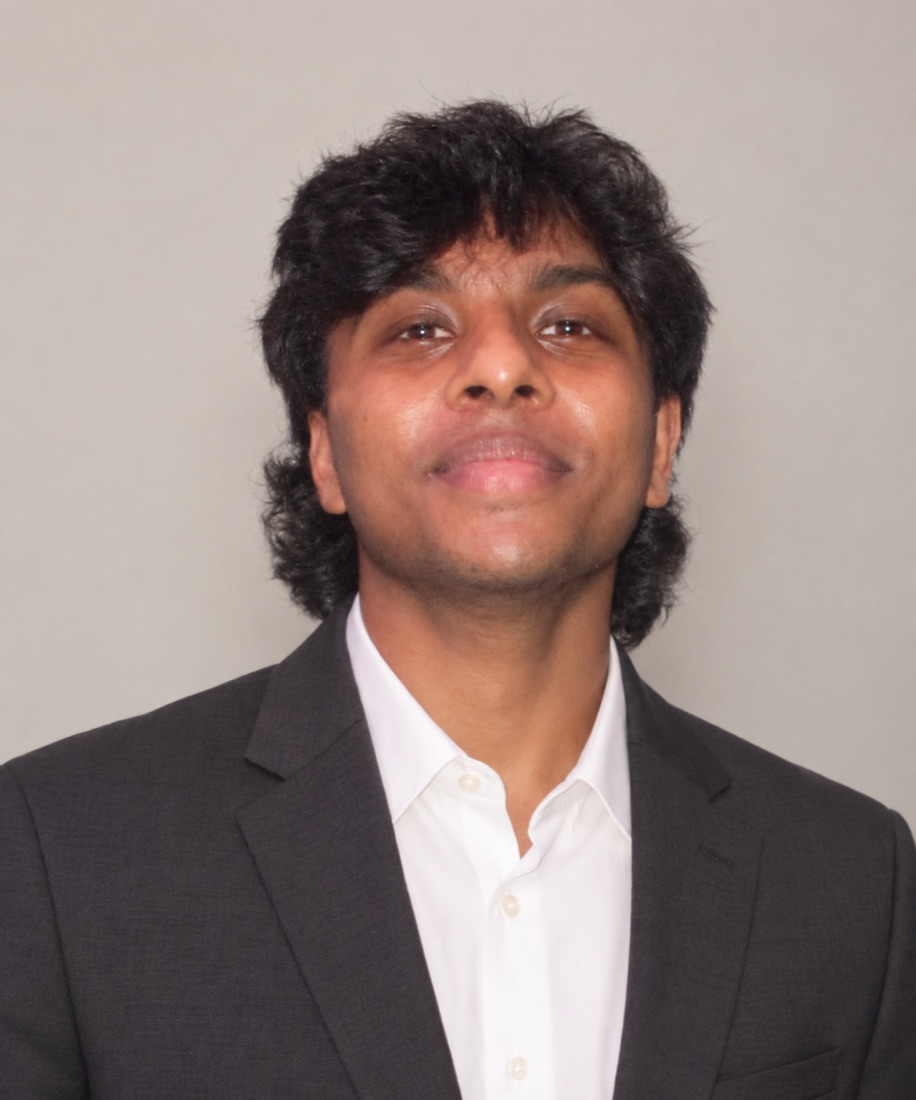
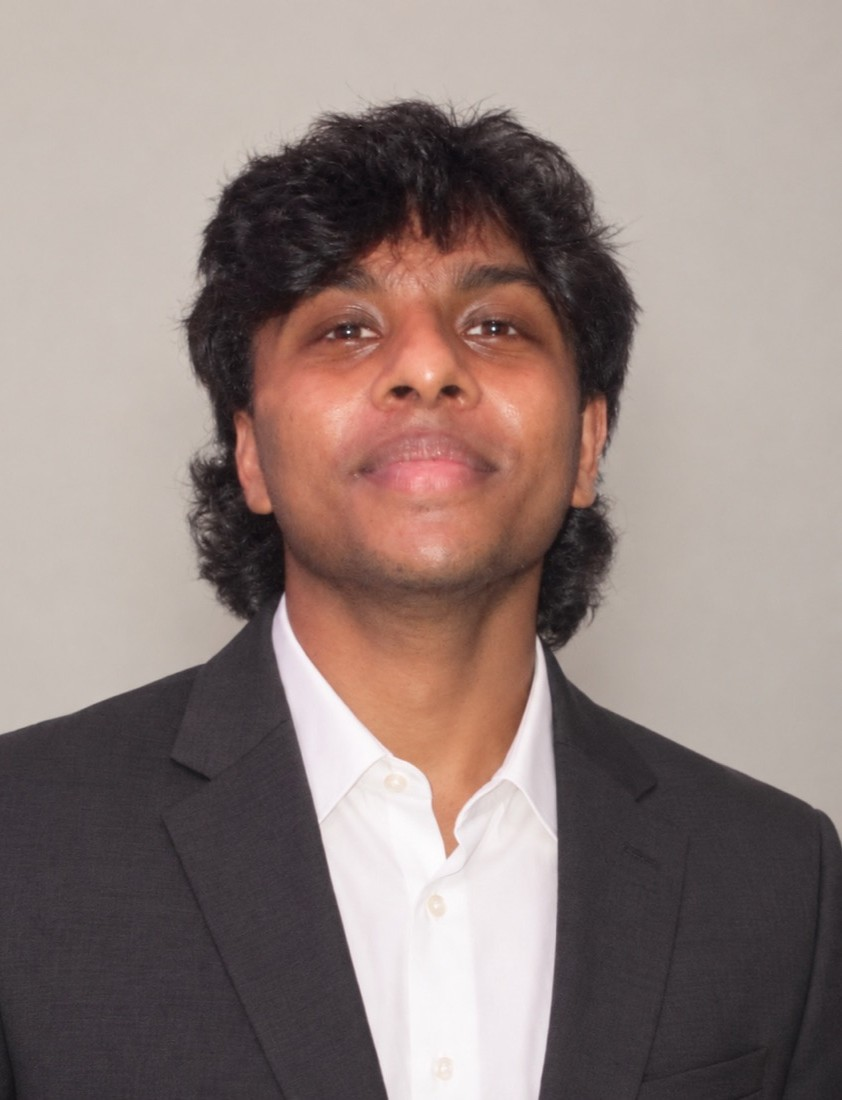
Hero photo: a real Polaroid (square print, deep chin), face cropped onto the centre line, glossy print that catches the light as the pointer moves

diff --git a/src/styles/sections.css b/src/styles/sections.css
@@ -272,28 +272,69 @@
   margin-bottom: 24px;
 }
 
-/* A Polaroid on the cards' cream stock, set straight: a thin even border
-   on all four sides. The window takes whatever height the intro leaves (near square
-   on a desktop); `height: 0` keeps the image's own height out of the row's
-   sizing, so the intro alone sets it. The crop sits high, on the face. */
+/* A Polaroid on the cards' cream stock, set straight: an even border on
+   the top and both sides, a square print, and the deep blank chin below,
+   which takes whatever height the intro leaves. The picture is cropped
+   in the file so his face sits on the print's vertical centre line. */
 .hero__photo {
+  --side: 13px;
   display: flex;
   flex-direction: column;
   width: 256px;
   margin: 5px 0;
-  padding: 14px;
+  padding: var(--side) var(--side) calc(var(--side) * 3);
   background: var(--cream);
-  border-radius: 4px;
+  border-radius: 3px;
   box-shadow: var(--card-shadow);
 }
 
-.hero__photo img {
+/* The print: square, set a hair into the frame by a soft inner shadow,
+   with its gloss on top. The shine is a diagonal band of light, faint at
+   rest; HeroPhoto.tsx sets --shine-x and --shine-y from the pointer, so it
+   slides across the print as the visitor moves. */
+.hero__print {
+  position: relative;
   display: block;
-  flex: 1 1 auto;
+  aspect-ratio: 1;
+  overflow: hidden;
+}
+
+.hero__print img {
+  display: block;
   width: 100%;
-  height: 0;
+  height: 100%;
   object-fit: cover;
   object-position: 50% 28%;
+}
+
+.hero__print::before,
+.hero__print::after {
+  content: '';
+  position: absolute;
+  inset: 0;
+  pointer-events: none;
+}
+
+.hero__print::before {
+  background: linear-gradient(
+    118deg,
+    transparent 30%,
+    rgba(255, 255, 255, 0.1) 38%,
+    rgba(255, 255, 255, 0.34) 44%,
+    rgba(255, 255, 255, 0.08) 49%,
+    rgba(255, 255, 255, 0.16) 52%,
+    transparent 60%
+  );
+  background-size: 300% 300%;
+  background-position: calc(85% - var(--shine-x, 0.35) * 70%) calc(70% - var(--shine-y, 0.3) * 40%);
+  mix-blend-mode: screen;
+  transition: background-position 0.6s var(--ease);
+}
+
+.hero__print::after {
+  box-shadow:
+    inset 0 0 0 1px rgba(0, 0, 0, 0.18),
+    inset 0 1px 3px rgba(0, 0, 0, 0.25);
 }
 
 .hero__title {
@@ -334,8 +375,8 @@
     gap: 28px;
   }
   .hero__photo {
+    --side: 12px;
     width: 224px;
-    padding: 12px;
   }
 }
 
@@ -348,11 +389,7 @@
     justify-self: center;
     width: min(256px, 72%);
     margin: 0;
-  }
-  .hero__photo img {
-    flex: none;
-    height: auto;
-    aspect-ratio: 1;
+    padding-bottom: calc(var(--side) * 4.6);
   }
 }
 

diff --git a/src/components/HeroPhoto.tsx b/src/components/HeroPhoto.tsx
@@ -1,13 +1,46 @@
+import { useEffect, useRef } from 'react'
 import { site } from '../data'
+import { richPointer } from '../lib/motion'
 
 /**
- * The photo beside the name: a print on the same cream stock as the cards. Both views render this one component.
+ * The photo beside the name: a Polaroid on the same cream stock as the
+ * cards. Both views render this one component. The print is glossy and the
+ * frame is matte, so only the picture catches the light: a soft band of
+ * shine slides across it as the pointer moves over the page.
  */
 export function HeroPhoto() {
   const { src, width, height, alt } = site.photo
+  const ref = useRef<HTMLElement>(null)
+
+  useEffect(() => {
+    const fig = ref.current
+    if (!fig || !richPointer()) return
+    let frame = 0
+    const move = (e: PointerEvent) => {
+      cancelAnimationFrame(frame)
+      frame = requestAnimationFrame(() => {
+        fig.style.setProperty('--shine-x', (e.clientX / window.innerWidth).toFixed(3))
+        fig.style.setProperty('--shine-y', (e.clientY / window.innerHeight).toFixed(3))
+      })
+    }
+    // Only while the photo is on screen.
+    const seen = new IntersectionObserver(([entry]) => {
+      if (entry.isIntersecting) window.addEventListener('pointermove', move, { passive: true })
+      else window.removeEventListener('pointermove', move)
+    })
+    seen.observe(fig)
+    return () => {
+      cancelAnimationFrame(frame)
+      seen.disconnect()
+      window.removeEventListener('pointermove', move)
+    }
+  }, [])
+
   return (
-    <figure className="hero__photo">
-      <img src={src} width={width} height={height} alt={alt} decoding="async" />
+    <figure ref={ref} className="hero__photo">
+      <span className="hero__print">
+        <img src={src} width={width} height={height} alt={alt} decoding="async" />
+      </span>
     </figure>
   )
 }

diff --git a/src/data/site.ts b/src/data/site.ts
@@ -23,7 +23,7 @@ export const site = {
   /** The one photo on the site: beside the name in the hero, in both views. */
   photo: {
     src: '/bhanu.jpg',
-    width: 916,
+    width: 842,
     height: 1100,
     alt: 'Bhanu in a charcoal suit and white shirt against a plain gray backdrop.',
   },

diff --git a/CLAUDE.md b/CLAUDE.md
@@ -163,8 +163,12 @@ contact form, deployed on Vercel. Desktop first; phones get a stacked layout.
 - No GPA, grades, honors, ratings, or invented metrics and dates. One
   photo only: `site.photo` (`public/bhanu.jpg`, metadata
   stripped), rendered by `src/components/HeroPhoto.tsx` beside the name
-  in both heroes as a straight Polaroid on cream stock, no caption, an even
-  border all round. It stretches to the intro, top on the eyebrow's cap
+  in both heroes as a straight Polaroid on cream stock, no caption: an even
+  border on the top and sides, a square print, and a deep blank chin below.
+  The file is cropped so his face sits on the print's vertical centre line.
+  The print is glossy and the frame matte: a soft band of shine slides
+  across the print with the pointer (fine pointers only, still under
+  reduced motion). It stretches to the intro, top on the eyebrow's cap
   top and bottom on the seeking line's baseline, right edge on the content
   edge; 256px wide (224 at 1149 and below) so the name keeps one line.
   From 1023 down it drops under the intro, square and centred.
